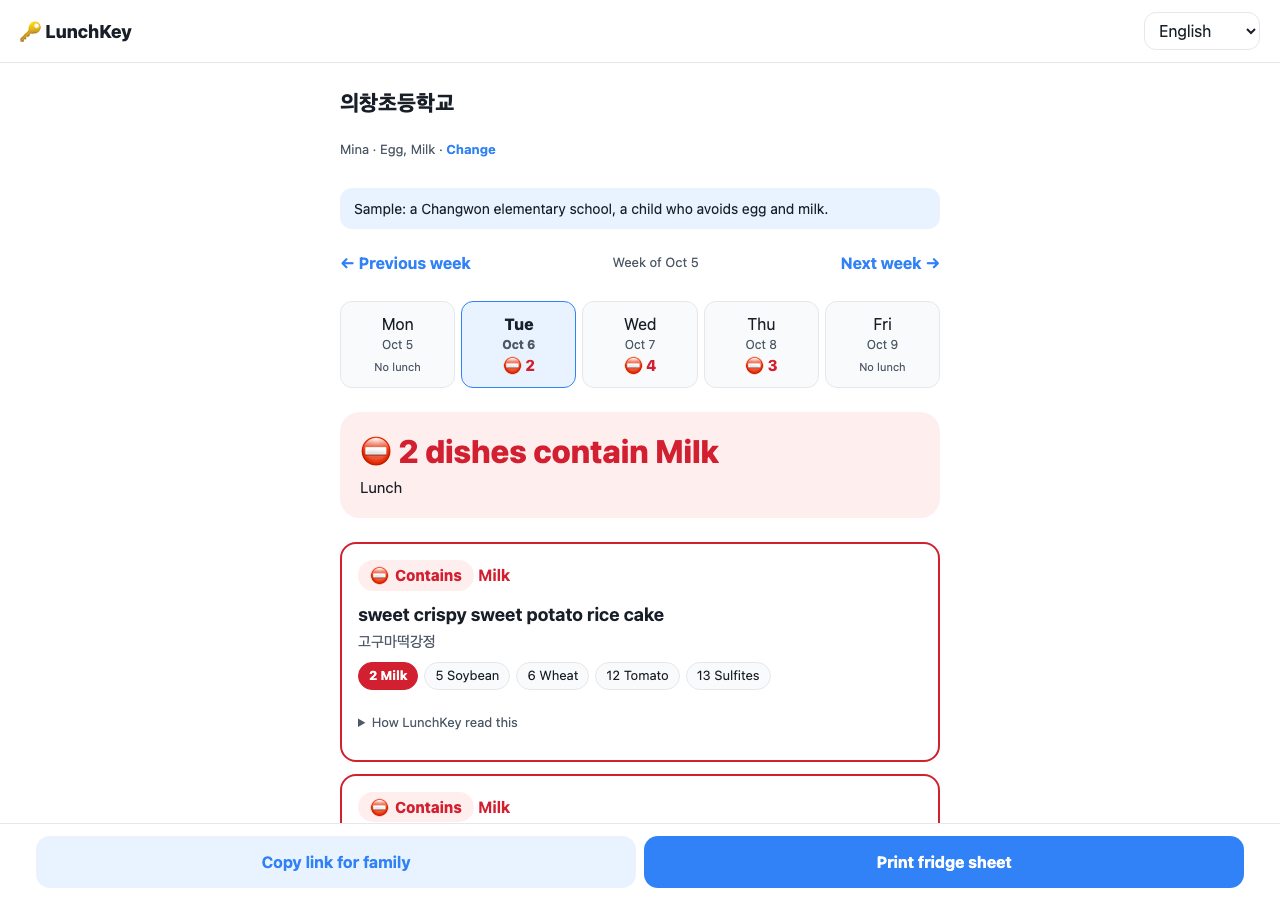
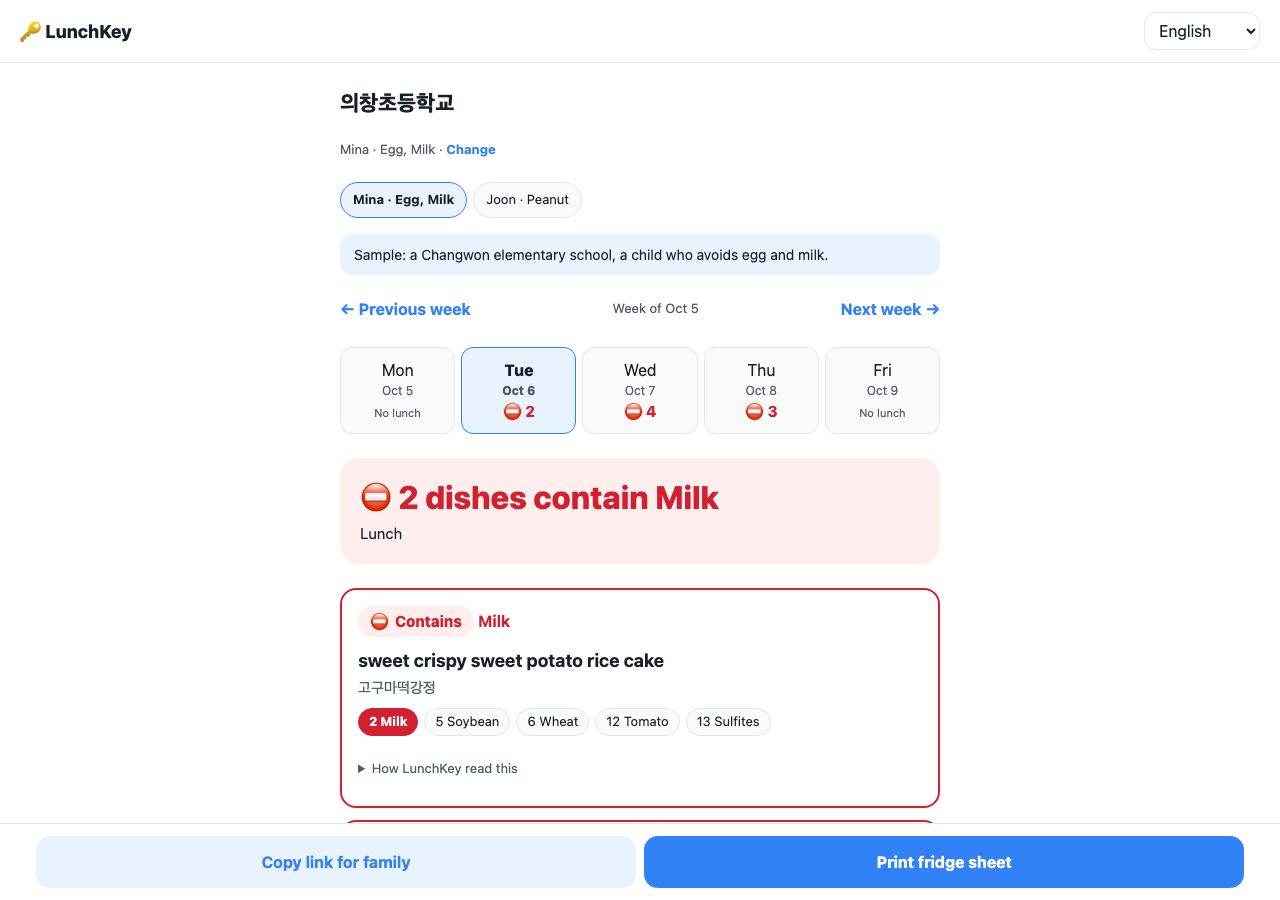
v0.5.1: split outside brackets and trailing dishes; shared numbers never green; legend lists; two-digit leftovers; glued-only counters; more name hints; fetch timeout + labeled sample week; demo family; clearer headlines

diff --git a/src/ui/i18n.js b/src/ui/i18n.js
@@ -14,7 +14,7 @@ export const T = {
     containsCount: (n, a) => `${n} ${n === 1 ? 'dish contains' : 'dishes contain'} ${a}`,
     allClear: 'No dish lists your child\'s allergens', noMeal: 'No lunch menu published for this day.',
     howRead: 'How LunchKey read this', printed: 'Printed on the menu', codes: 'Allergen numbers',
-    glossNote: 'Dish names are explained from a reviewed word list, not machine-translated. Untranslated parts are shown in Korean letters.',
+    glossNote: 'Dish names are explained from a reviewed word list, not machine-translated. Parts it does not know are shown romanized and marked (?).',
     print: 'Print fridge sheet', share: 'Copy link for family', copied: 'Link copied',
     prevWeek: '← Previous week', nextWeek: 'Next week →', week: 'Week of', edit: 'Change',
     pasteInstead: 'Or paste a menu (daycare, kindergarten…)', pasteTitle: 'Paste a menu', pasteHint: 'One dish per line, with the numbers as printed.', check: 'Check',
@@ -32,6 +32,7 @@ export const T = {
     notPublished: "This week's menu isn't published yet.", addChild: '+ Add another child', linkedChild: 'Added as another child.',
     schoolLink: 'For schools and family centers: copy a link with this school already chosen', noLunch: 'No lunch',
     mightContain: (a) => `Might contain ${a} — ask the school`, whyNumber: (n) => `A "${n}" is printed next to the name.`, whyName: 'The dish name suggests it, but no number is printed for it.', avoid: 'Avoid',
+    maybeHero: (n, a) => `${n} ${n === 1 ? 'dish' : 'dishes'} might contain ${a} — ask the school`, noNumbersOn: 'no numbers on', sampleWeek: 'Sample week (the live menu service could not be reached from here).',
   },
   ko: {
     tagline: '우리 아이 학교 급식, 내 언어로.',
@@ -63,6 +64,7 @@ export const T = {
     notPublished: '이번 주 식단이 아직 올라오지 않았어요.', addChild: '+ 아이 추가', linkedChild: '다른 아이로 추가했어요.',
     schoolLink: '학교·가족센터용: 이 학교가 미리 선택된 링크 복사', noLunch: '급식 없음',
     mightContain: (a) => `${a} 들어 있을 수 있음 — 학교에 확인`, whyNumber: (n) => `이름 옆에 "${n}"이(가) 적혀 있어요.`, whyName: '메뉴 이름에 들어 있는데 번호는 없어요.', avoid: '피할 것',
+    maybeHero: (n, a) => `${n}개 메뉴에 ${a} 들어 있을 수 있음 — 학교에 확인`, noNumbersOn: '번호 없는 메뉴', sampleWeek: '예시 주간이에요(여기서는 실시간 급식 서비스에 연결되지 않았어요).',
   },
   vi: {
     tagline: 'Bữa trưa ở trường của con, bằng ngôn ngữ của bạn.',
@@ -94,6 +96,7 @@ export const T = {
     notPublished: 'Thực đơn tuần này chưa được đăng.', addChild: '+ Thêm con', linkedChild: 'Đã thêm như một bé khác.',
     schoolLink: 'Dành cho trường và trung tâm gia đình: sao chép liên kết đã chọn sẵn trường này', noLunch: 'Không có bữa trưa',
     mightContain: (a) => `Có thể có ${a} — hãy hỏi nhà trường`, whyNumber: (n) => `Có số "${n}" in cạnh tên món.`, whyName: 'Tên món gợi ý có, nhưng không có số.', avoid: 'Cần tránh',
+    maybeHero: (n, a) => `${n} món có thể có ${a} — hãy hỏi nhà trường`, noNumbersOn: 'món không in số', sampleWeek: 'Tuần mẫu (không kết nối được dịch vụ thực đơn trực tiếp từ đây).',
   },
   zh: {
     tagline: '孩子的学校午餐，用您的语言看懂。',
@@ -125,6 +128,7 @@ export const T = {
     notPublished: '本周菜单尚未发布。', addChild: '+ 添加孩子', linkedChild: '已作为另一个孩子添加。',
     schoolLink: '供学校和家庭中心使用：复制已选好本校的链接', noLunch: '无午餐',
     mightContain: (a) => `可能含有${a} — 请向学校确认`, whyNumber: (n) => `菜名旁印有“${n}”。`, whyName: '菜名提示含有，但没有编号。', avoid: '需避开',
+    maybeHero: (n, a) => `${n} 道菜可能含有${a} — 请向学校确认`, noNumbersOn: '无编号的菜', sampleWeek: '示例周（从这里无法连接实时菜单服务）。',
   },
   tl: {
     tagline: 'Ang tanghalian ng anak mo sa paaralan, sa sarili mong wika.',
@@ -156,6 +160,7 @@ export const T = {
     notPublished: 'Hindi pa nailalabas ang menu ngayong linggo.', addChild: '+ Magdagdag ng anak', linkedChild: 'Idinagdag bilang ibang anak.',
     schoolLink: 'Para sa paaralan at family center: kopyahin ang link na napili na ang paaralang ito', noLunch: 'Walang tanghalian',
     mightContain: (a) => `Maaaring may ${a} — itanong sa paaralan`, whyNumber: (n) => `May "${n}" na nakasulat sa tabi ng pangalan.`, whyName: 'Ipinahihiwatig ng pangalan ng ulam, pero walang numero.', avoid: 'Iwasan',
+    maybeHero: (n, a) => `${n} ulam ang maaaring may ${a} — itanong sa paaralan`, noNumbersOn: 'walang numero', sampleWeek: 'Halimbawang linggo (hindi maabot ang live na serbisyo ng menu mula rito).',
   },
   ja: {
     tagline: 'お子さんの給食を、あなたの言葉で。',
@@ -187,6 +192,7 @@ export const T = {
     notPublished: '今週の献立はまだ公開されていません。', addChild: '+ 子どもを追加', linkedChild: '別のお子さんとして追加しました。',
     schoolLink: '学校・家族支援センター向け：この学校を選択済みのリンクをコピー', noLunch: '給食なし',
     mightContain: (a) => `${a}を含む可能性 — 学校に確認`, whyNumber: (n) => `料理名の横に「${n}」と書かれています。`, whyName: '料理名からは含まれそうですが、番号はありません。', avoid: '避けるもの',
+    maybeHero: (n, a) => `${n}品に${a}が含まれる可能性 — 学校に確認`, noNumbersOn: '番号なし', sampleWeek: 'サンプルの週です（ここからは献立サービスに接続できませんでした）。',
   },
   ru: {
     tagline: 'Школьный обед вашего ребёнка — на вашем языке.',
@@ -218,6 +224,7 @@ export const T = {
     notPublished: 'Меню на эту неделю ещё не опубликовано.', addChild: '+ Добавить ребёнка', linkedChild: 'Добавлен как другой ребёнок.',
     schoolLink: 'Для школ и семейных центров: скопировать ссылку с уже выбранной школой', noLunch: 'Нет обеда',
     mightContain: (a) => `Может содержать: ${a} — уточните в школе`, whyNumber: (n) => `Рядом с названием напечатано «${n}».`, whyName: 'Название блюда указывает на это, но номера нет.', avoid: 'Избегать',
+    maybeHero: (n, a) => `Может содержать «${a}» (блюд: ${n}) — уточните в школе`, noNumbersOn: 'без номеров', sampleWeek: 'Пример недели (служба меню отсюда недоступна).',
   },
 };
 

diff --git a/src/domain/menu.js b/src/domain/menu.js
@@ -28,19 +28,47 @@ export function splitMenu(ddish) {
     .flatMap(splitCompound);
 }
 
-const HAS_CODE_GROUP = /[(\[<]\s*\d{1,2}(?:[.,/·\s]+\d{1,2})*\s*[.,]?\s*[)\]>]|[\u2460-\u2473\u2776-\u277f]/;
+const HAS_CODE_GROUP = /[(\[<]\s*\d{1,2}(?:[.,/·\s]+\d{1,2})*\s*[.,]?\s*[)\]>]|[\u2460-\u24ff\u2776-\u2793]/;
+// Side items that may share the main dish's numbers ("밥/짜장소스 (5.6.10)").
+const SIDE = /^(?:소스|쌈장|양념장|초장|간장|양념|밥|쌀밥|상추|쌈|드레싱|케첩|케찹|머스터드|마요|단무지|피클|김치|배추김치|깍두기)$/;
+
+/** Split on separators that are OUTSIDE brackets only. */
+function splitOutside(line) {
+  const out = []; let depth = 0; let cur = '';
+  for (let i = 0; i < line.length; i++) {
+    const ch = line[i];
+    if ('([<{'.includes(ch)) depth++;
+    if (')]>}'.includes(ch)) depth = Math.max(0, depth - 1);
+    const isSep = depth === 0 && ('/&+'.includes(ch) || (ch === ',' && /[\uac00-\ud7a3]/.test(line.slice(i + 1).trimStart()[0] ?? '')));
+    if (isSep) { out.push(cur); cur = ''; } else cur += ch;
+  }
+  out.push(cur);
+  return out.map((x) => x.trim()).filter(Boolean);
+}
+
 /**
- * "카레라이스(1.5.6)/요구르트(2)" is two dishes. Split on / & + , when both sides name a dish.
- * If only the LAST part carries a code group ("잡채밥/짜장소스 (5.6.10)"), the codes are shared and the line stays one dish.
+ * One printed line can hold several dishes:
+ * - "카레라이스(1.5.6)/요구르트(2)" → two dishes (split on / & + , outside brackets)
+ * - "새우튀김 (1.5.6.9) 타르타르소스" → two dishes (Korean text after the last code group is its own, unnumbered dish)
+ * - "잡채밥/짜장소스 (5.6.10)" → one dish whose numbers may be shared; it is marked `shared:` so it is never shown green
+ *   unless the earlier parts are plain side items.
  * @param {string} line
  * @returns {string[]}
  */
 export function splitCompound(line) {
-  const parts = line.split(/\s*[/&+]\s*|\s*,\s*(?=[\uac00-\ud7a3])/).map((x) => x.trim()).filter(Boolean);
+  // Trailing dish after the last code group, separated by a space: "새우튀김 (1.5.6.9) 타르타르소스".
+  const tail = line.match(/^(.*[)\]>])\s+([^()\[\]<>]*[\uac00-\ud7a3]{2,}[^()\[\]<>]*)$/);
+  if (tail && HAS_CODE_GROUP.test(tail[1]) && !/^\s*[-–]?\d/.test(tail[2]) === true && !/^[\s\d]*$/.test(tail[2])) {
+    return [...splitCompound(tail[1].trim()), tail[2].trim()];
+  }
+  const parts = splitOutside(line);
   if (parts.length < 2 || !parts.every((x) => /[\uac00-\ud7a3]/.test(x))) return [line];
   const coded = parts.map((x) => HAS_CODE_GROUP.test(x));
   if (!coded.some(Boolean)) return [line];
-  if (coded.filter(Boolean).length === 1 && coded[coded.length - 1]) return [line];
+  if (coded.filter(Boolean).length === 1 && coded[coded.length - 1]) {
+    const earlier = parts.slice(0, -1).map((x) => x.replace(/[^\uac00-\ud7a3]/g, ''));
+    return earlier.every((x) => SIDE.test(x)) ? [line] : [`shared:${line}`];
+  }
   return parts;
 }
 
@@ -54,6 +82,9 @@ const numbers = (group) => group.split(/[^\d]+/).filter(Boolean).map(Number);
  * @returns {DishLine}
  */
 export function parseDishLine(raw) {
+  // "shared:" marks a line whose numbers belong to only some of its dishes (see splitCompound): never green.
+  const shared = String(raw ?? '').startsWith('shared:');
+  if (shared) raw = String(raw).slice('shared:'.length);
   const found = [];
   const ambiguous = []; // numbers that COULD be codes but aren't clearly codes: never allowed to support "clear"
   const maybe = (n) => { if (isAllergenCode(n)) ambiguous.push(n); };
@@ -72,7 +103,11 @@ export function parseDishLine(raw) {
   // ㆍ (U+318D) is a common middle-dot stand-in; swap it BEFORE NFKC (which turns it into a jamo).
   s = s.replace(/[ㆍ\u119e]/g, '·').normalize('NFKC').replace(MARKERS, '');
   // A bracket holding only an allergen's name ("(난류)", "(게)", "(아황산)") is that code.
-  s = s.replace(/[([]\s*([\uac00-\ud7a3]{1,5})\s*[)\]]/g, (all, w) => { const id = LEGEND_WORDS.get(w); if (id) { found.push(id); hadGroup = true; return ' '; } return all; });
+  s = s.replace(/[([]\s*([\uac00-\ud7a3]{1,5}(?:\s*[,·/\s]\s*[\uac00-\ud7a3]{1,5})*)\s*[)\]]/g, (all, list) => {
+    const ids = list.split(/[,·/\s]+/).map((w) => LEGEND_WORDS.get(w));
+    if (ids.length && ids.every(Boolean)) { found.push(...ids); hadGroup = true; return ' '; }
+    return all;
+  });
 
   // Portion notes ("(30g*3개)", "(20kg)", "(50 ml)") are not codes, but any 1–19 number inside stays ambiguous.
   s = s.replace(/\(\s*[\d.]+\s*(?:g|kg|ml|mL|l|L|개|ea|EA|인분|조각|%)(?:\s*[*x×]\s*\d+\s*(?:개|ea|EA|조각)?)?\s*\)/g, (note) => { for (const m of note.matchAll(/\d+/g)) maybe(+m[0]); return ' '; });
@@ -106,19 +141,21 @@ export function parseDishLine(raw) {
   const COUNTER = /^(?:곡|색|가지|종류|인분|학년|단계|등급|겹|혼합|탄)/;
   s = s.replace(/\d+/g, (num, at, whole) => {
     const after = whole.slice(at + num.length);
-    if (COUNTER.test(after) && !(at === 0 && Number(num) <= 19 && !/^(?:곡|색|가지|종류|혼합)/.test(after))) return num; // part of the dish name
+    const glued = at === 0 || /[\uac00-\ud7a3]/.test(whole[at - 1] ?? '');
+    if (glued && COUNTER.test(after) && !(at === 0 && Number(num) <= 19 && !/^(?:곡|색|가지|종류|혼합)/.test(after))) return num; // part of the dish name
     const v = Number(num);
+    if (num.length === 2 && hadGroup) { maybe(Number(num[0])); maybe(Number(num[1])); } // "(5.6)¹²" → 12, or 1 and 2
     if (num.length > 2 || v > 19 || v === 0) return num; // "비타500", "오렌지 31": not a code
     maybe(v);
     return /[가-힣]/.test(whole[at - 1] ?? '') && /[가-힣]/.test(after[0] ?? '') ? num : ' ';
   });
 
-  const nameKo = s.replace(/\s{2,}/g, ' ').replace(/\s*([/&])\s*/g, '$1').replace(/[\s(.:;,·~_\-]+$/, '').replace(/^[\s(.:;,·~_\-]+/, '').replace(MARKERS, '').trim();
+  const nameKo = s.replace(/\(\s*[-–·.,\s]*\)/g, ' ').replace(/(?:^|\s)(?:개|조각)(?=\s|$)/g, ' ').replace(/\s{2,}/g, ' ').replace(/\s*([/&])\s*/g, '$1').replace(/[\s(.:;,·~_\-]+$/, '').replace(/^[\s(.:;,·~_\-]+/, '').replace(MARKERS, '').trim();
 
   const codes = [...new Set(found.filter(isAllergenCode))].sort((a, b) => a - b);
   const unknownCodes = [...new Set(found.filter((n) => !isAllergenCode(n)))].sort((a, b) => a - b);
   const ambiguousCodes = [...new Set(ambiguous)].filter((n) => !codes.includes(n)).sort((a, b) => a - b);
   /** @type {ParseStatus} */
   const parseStatus = unknownCodes.length || leftover || unreadableMark ? 'malformed' : codes.length ? 'coded' : 'uncoded';
-  return { raw: String(raw ?? ''), nameKo, codes, unknownCodes, ambiguousCodes, parseStatus };
+  return { raw: String(raw ?? ''), nameKo, codes, unknownCodes, ambiguousCodes, parseStatus, shared };
 }

diff --git a/src/ui/app.js b/src/ui/app.js
@@ -11,6 +11,7 @@ import { encodeProfile, decodeProfile, UI_LANGS } from '../adapters/profileStore
 import { t, LANG_NAMES } from './i18n.js';
 
 const SAMPLE = { school: { office: 'S10', code: '9022479', name: '의창초등학교' }, allergens: [1, 2], name: 'Mina' };
+const SAMPLE_SIBLING = { school: SAMPLE.school, allergens: [4], name: 'Joon' }; // demo family: a peanut-allergic sibling shows the grey / green states
 const SAMPLE_WEEK = '2026-09-28'; // bundled copy in docs/sample-week.json (used if the live API can't be reached)
 const STORE = 'lunchkey.v1';
 const CACHE = 'lunchkey.cache.v4'; // stores RAW menu lines, re-parsed on read, so parser fixes reach saved weeks
@@ -22,7 +23,8 @@ if (params.get('key')) {
   params.delete('key'); history.replaceState(null, '', location.pathname + (params.toString() ? `?${params}` : '') + location.hash); // don't leave the key in the address bar
 }
 let neisKey = ''; try { neisKey = localStorage.getItem(KEY_STORE) || ''; } catch { /* ignore */ }
-const neis = createNeisSource({ fetch: (u) => fetch(u), key: neisKey || undefined }); // optional free NEIS key enables full paging
+const fetchWithTimeout = (u) => { const c = new AbortController(); const t = setTimeout(() => c.abort(), 6000); return fetch(u, { signal: c.signal }).finally(() => clearTimeout(t)); };
+const neis = createNeisSource({ fetch: fetchWithTimeout, key: neisKey || undefined }); // 6 s timeout; optional free NEIS key enables full paging
 const $app = document.getElementById('app');
 const $cta = document.getElementById('cta');
 const $lang = document.getElementById('langSelect');
@@ -52,7 +54,10 @@ function loadState() {
   const notice = merged.notice;
   if (!children.length) children = [{ allergens: [], lang: guessLang(), name: '', school: null }];
   let profile = children[Math.min(active, children.length - 1)];
-  if (DEMO) { profile = { ...profile, ...SAMPLE, lang: UI_LANGS.includes(params.get('lang')) ? params.get('lang') : profile.lang }; children = [profile]; active = 0; }
+  if (DEMO) {
+    const lang = UI_LANGS.includes(params.get('lang')) ? params.get('lang') : profile.lang;
+    children = [{ ...SAMPLE, lang }, { ...SAMPLE_SIBLING, lang }]; active = params.get('kid') === '2' ? 1 : 0; profile = children[active];
+  }
   // A parent arriving from a school link (school set, nothing chosen yet) starts at the language step.
   const step = params.get('paste') === '1' ? 'paste' : profile.school && profile.allergens.length ? 'week' : 'lang';
   return { children, active, profile, step, monday: weekRange(todayIso()).monday, day: null, firstLoad: true, notice, pasteText: '', office: '', weeks: new Map() };
@@ -190,7 +195,12 @@ async function loadWeek(monday) {
       state.weeks.set(key, res);
       return res;
     }
-    if (DEMO) { state.monday = SAMPLE_WEEK; return { meals: await bundledSample(), offline: true }; }
+    if (DEMO) {
+      state.monday = SAMPLE_WEEK;
+      const res = { meals: await bundledSample(), offline: 'sample' };
+      state.weeks.set(`${state.profile.school.office}:${state.profile.school.code}:${SAMPLE_WEEK}`, res);
+      return res;
+    }
     throw err;
   }
 }
@@ -242,8 +252,8 @@ async function renderWeek() {
     const names = h.matched.map((c) => allergenName(c, p.lang)).join(', ');
     const hero = {
       no: `<div class="hero no"><div class="big">⛔ ${esc(L.containsCount(h.count, names))}</div><p>${esc(L.lunch)}</p></div>`,
-      warn: `<div class="hero warn"><div class="big">? ${esc(L.unknownHero(h.count))}</div><p>${esc(L.lunch)}</p></div>`,
-      neutral: `<div class="hero neutral"><div class="big">○ ${esc(L.nolistedHero(h.count))}</div><p>${esc(L.lunch)}</p></div>`,
+      warn: `<div class="hero warn"><div class="big">? ${esc(h.maybe.length ? L.maybeHero(h.count, h.maybe.map((c) => allergenName(c, p.lang)).join(', ')) : L.unknownHero(h.count))}</div><p>${esc(L.lunch)}</p></div>`,
+      neutral: `<div class="hero neutral"><div class="big">○ ${esc(L.nolistedHero(h.count))}</div><p>${esc(L.lunch)} · ${esc(L.noNumbersOn)}: ${esc(h.unnumbered.map((d) => (p.lang === 'ko' ? d.nameKo : d.gloss.text)).join(', '))}</p></div>`,
       ok: `<div class="hero ok"><div class="big">✓ ${esc(L.allClear)}</div><p>${esc(L.lunch)}</p></div>`,
       none: `<div class="hero none"><div class="big">—</div><p>${esc(L.noMeal)}</p></div>`,
     }[h.tone];
@@ -251,7 +261,7 @@ async function renderWeek() {
     return hero + [...m.dishes].sort((a, b) => order[a.verdict] - order[b.verdict]).map((d) => dishCard(d, p.lang, L)).join('');
   }).join('');
   $app.innerHTML = `${header(p, L)}
-    ${state.notice ? `<p class="banner">${esc(state.notice)}</p>` : ''}${res.offline ? `<p class="banner">${esc(L.errNet)} ${esc(L.savedCopy)}</p>` : ''}
+    ${state.notice ? `<p class="banner">${esc(state.notice)}</p>` : ''}${res.offline === 'sample' ? `<p class="banner">${esc(L.sampleWeek)}</p>` : res.offline ? `<p class="banner">${esc(L.errNet)} ${esc(L.savedCopy)}</p>` : ''}
     <div class="weeknav" style="margin-top:12px"><button class="btn link" id="prev">${esc(L.prevWeek)}</button><span class="aux">${esc(L.week)} ${esc(fmtDate(state.monday, p.lang))}</span><button class="btn link" id="next">${esc(L.nextWeek)}</button></div>
     <div class="tabs" role="tablist">${tabs}</div><div id="panel" role="tabpanel" aria-labelledby="tab-${state.day}">${body}</div>
     <p class="note">${esc(L.safety)}</p><p class="note">${esc(L.glossNote)} · ${esc(L.dataSource)}</p>

diff --git a/src/domain/hints.js b/src/domain/hints.js
@@ -1,16 +1,16 @@
 // Words in a Korean dish name that point to one of the 19 numbered allergens.
 // Used only to ADD warnings: if the name suggests an allergen the printed numbers don't show, the dish is never "clear".
 const WORDS = [
-  [2, ['우유', '치즈', '요구르트', '요거트', '버터', '크림', '요플레', '밀크', '라떼']],
-  [1, ['계란', '달걀', '메추리알', '에그', '마요', '난류']],
+  [2, ['우유', '치즈', '요구르트', '요거트', '버터', '크림', '요플레', '밀크', '라떼', '카스테라', '케이크', '마늘빵', '피자']],
+  [1, ['계란', '달걀', '메추리알', '에그', '마요', '난류', '오므라이스', '카스테라', '케이크', '머핀', '와플', '푸딩']],
   [3, ['메밀', '모밀']],
   [4, ['땅콩']],
   [5, ['두부', '두유', '된장', '간장', '콩', '대두']],
   [6, ['밀가루', '빵', '국수', '라면', '우동', '파스타', '스파게티', '만두', '피자', '돈까스', '돈가스', '까스']],
   [7, ['고등어']],
-  [8, ['꽃게', '게맛살', '게살', '크래미', '대게']],
+  [8, ['꽃게', '게맛살', '게살', '크래미', '대게', '게장']],
   [9, ['새우']],
-  [10, ['돼지', '돈육', '제육', '삼겹', '목살', '햄', '소시지', '소세지', '베이컨', '스팸', '돈까스', '돈가스']],
+  [10, ['돼지', '돈육', '제육', '삼겹', '목살', '햄', '소시지', '소세지', '베이컨', '스팸', '돈까스', '돈가스', '탕수육', '순대', '족발', '보쌈', '수육']],
   [11, ['복숭아']],
   [12, ['토마토', '케첩', '케찹']],
   [13, ['아황산']],
@@ -26,7 +26,8 @@ const WORDS = [
 // Words that contain a hint word but mean something else.
 const EXCEPT = {
   5: /강낭콩|완두콩|병아리콩|땅콩/g, // kidney bean, pea, chickpea, peanut are not soybean
-  16: /(?:오리|돼지|돈육|제육|닭|돈|삼겹살|주꾸미|쭈꾸미|오징어|버섯)(?:고추장|간장|양념|매콤)?불고기/g, // duck/pork/chicken bulgogi is not beef
+  16: /(?:오리|돼지|돈육|제육|닭|돈|삼겹살|주꾸미|쭈꾸미|오징어)(?:고추장|간장|양념|매콤)?불고기/g,
+  10: /돼지감자/g, // Jerusalem artichoke, not pork // duck/pork/chicken bulgogi is not beef
 };
 
 /** @param {string} nameKo @returns {number[]} allergen ids the name suggests */

diff --git a/src/application/headline.js b/src/application/headline.js
@@ -3,15 +3,18 @@ import { summaryStatus } from './weekView.js';
 /**
  * What the big card at the top of a meal says. Pure, so the UI's most important sentence is tested.
  * @param {{dishes: {matched:number[]}[], summary: {contains:number, clear:number, nonumbers:number, unreadable:number}}} meal
- * @returns {{tone:'no'|'warn'|'neutral'|'ok'|'none', count:number, matched:number[]}}
+ * @returns {{tone:'no'|'warn'|'neutral'|'ok'|'none', count:number, matched:number[], maybe:number[], unnumbered:object[]}}
  */
 export function headline(meal) {
-  if (!meal || !meal.dishes.length) return { tone: 'none', count: 0, matched: [] };
+  if (!meal || !meal.dishes.length) return { tone: 'none', count: 0, matched: [], maybe: [], unnumbered: [] };
   const status = summaryStatus(meal.summary);
   const matched = [...new Set(meal.dishes.flatMap((d) => d.matched))].sort((a, b) => a - b);
-  if (status === 'contains') return { tone: 'no', count: meal.summary.contains, matched };
-  if (status === 'unknown') return { tone: 'warn', count: meal.summary.unreadable, matched };
-  if (status === 'nolisted') return { tone: 'neutral', count: meal.summary.nonumbers, matched };
-  if (status === 'clear') return { tone: 'ok', count: 0, matched };
-  return { tone: 'none', count: 0, matched };
+  const maybe = [...new Set(meal.dishes.flatMap((d) => d.maybe ?? []))].sort((a, b) => a - b);
+  const unnumbered = meal.dishes.filter((d) => d.verdict === 'nonumbers');
+  const base = { matched, maybe, unnumbered };
+  if (status === 'contains') return { tone: 'no', count: meal.summary.contains, ...base };
+  if (status === 'unknown') return { tone: 'warn', count: meal.summary.unreadable, ...base };
+  if (status === 'nolisted') return { tone: 'neutral', count: meal.summary.nonumbers, ...base };
+  if (status === 'clear') return { tone: 'ok', count: 0, ...base };
+  return { tone: 'none', count: 0, ...base };
 }

diff --git a/src/domain/verdict.js b/src/domain/verdict.js
@@ -22,6 +22,6 @@ export function judgeDish(dish, avoid) {
   if (byNumber.length) return { verdict: 'unreadable', matched: [], maybe: byNumber, reason: 'number' };
   if (byName.length) return { verdict: 'unreadable', matched: [], maybe: byName, reason: 'name' };
   if (dish.parseStatus === 'malformed') return { verdict: 'unreadable', matched: [], maybe: [], reason: 'malformed' };
-  if (dish.parseStatus === 'uncoded') return { verdict: 'nonumbers', matched: [], maybe: [], reason: 'none' };
+  if (dish.parseStatus === 'uncoded' || dish.shared) return { verdict: 'nonumbers', matched: [], maybe: [], reason: dish.shared ? 'shared' : 'none' };
   return { verdict: 'clear', matched: [], maybe: [], reason: 'code' };
 }

diff --git a/src/domain/glossary.js b/src/domain/glossary.js
@@ -3370,5 +3370,20 @@ export const GLOSSARY = {
 "en": "fish-cake bar",
 "vi": "chả cá que",
 "zh": "鱼糕棒"
+},
+"돼지감자": {
+"en": "Jerusalem artichoke",
+"vi": "củ cúc vu",
+"zh": "菊芋"
+},
+"타르타르소스": {
+"en": "tartar sauce",
+"vi": "sốt tartar",
+"zh": "塔塔酱"
+},
+"마늘빵": {
+"en": "garlic bread",
+"vi": "bánh mì bơ tỏi",
+"zh": "蒜香面包"
 }
 };

diff --git a/README.md b/README.md
@@ -62,7 +62,7 @@ A day or meal is green only if every dish is ✓. Two safety layers make sure of
 - **The parser treats any leftover number from 1 to 19 as possibly a code**, unless it is part of a counting word (`10곡`, `3색`).
 - **The dish name can only add warnings.** For example, `우유` (milk) printed without a number shows "Might contain Milk" to a milk-allergic child.
 
-A fuzz test checks this. For every code N and 9 real dish bases, it puts N after 28 separators (`,` `·` `ㆍ` `;` `~` `–` `※` …), in front of the name, inside notes (`(난류N)`, `(가공:N)`), in full-width brackets, as every circled-number style and as a superscript. That is about 7,000 generated lines, and none of them may produce ✓ for a child avoiding N. Legend words printed instead of numbers (`(난류)`, `(게)`) count as codes, and a list that is cut off (`(5.6.`) is unreadable. Lines with two dishes (`카레라이스(1.5.6)/요구르트`) are split, so the unnumbered dish is never folded into a green one.
+A fuzz test checks this. For every code N and 9 real dish bases, it puts N after 28 separators (`,` `·` `ㆍ` `;` `~` `–` `※` …), in front of the name, inside notes (`(난류N)`, `(가공:N)`), in full-width brackets, as every circled-number style and as a superscript. That is about 7,000 generated lines, and none of them may produce ✓ for a child avoiding N. Legend words printed instead of numbers (`(난류)`, `(게)`) count as codes, and a list that is cut off (`(5.6.`) is unreadable. Lines with two dishes are split outside brackets (`카레라이스(1.5.6)/요구르트`, `새우튀김 (1.5.6.9) 타르타르소스`), and when numbers are printed only after the last of several dishes (`오므라이스/미역국(5.6)`), that line is never shown green unless the others are plain side items (rice, sauce).
 
 ## Does it actually read real menus? (measured, not claimed)
 
@@ -98,7 +98,7 @@ Every one of those odd lines is listed in [`docs/audit.json`](docs/audit.json), 
 Amber "?" days stay under 2% for every allergen, so the warning keeps its meaning. Milk shows ⛔ on 81% of days because the daily milk carton is numbered.
 
 ### Dish names: explained, not machine-translated
-A wrong translation could hide an ingredient. So each name is built only from a **glossary of 650+ Korean menu words** (English, Vietnamese, Chinese), using longest-match segmentation. For example, `돼지고기김치찌개` becomes "pork kimchi stew", and `달걀찜` becomes "steamed egg" / "trứng hấp" / "蒸鸡蛋" (word order per language). A part LunchKey doesn't know is marked "(?)" right in the name: romanized in English, kept in Korean letters in Vietnamese and Chinese. It is never guessed.
+A wrong translation could hide an ingredient. So each name is built only from a **glossary of 670+ Korean menu words** (English, Vietnamese, Chinese), using longest-match segmentation. For example, `돼지고기김치찌개` becomes "pork kimchi stew", and `달걀찜` becomes "steamed egg" / "trứng hấp" / "蒸鸡蛋" (word order per language). A part LunchKey doesn't know is marked "(?)" right in the name: romanized in English, kept in Korean letters in Vietnamese and Chinese. It is never guessed.
 
 The allergen verdict never depends on the dish name, only on the printed numbers. English glosses were checked by the author, a native Korean speaker. Vietnamese and Chinese glosses were drafted with AI help and checked against dictionaries; native-speaker review is the next step. Filipino, Japanese and Russian users see English dish explanations, tagged as English for screen readers.
 
@@ -116,7 +116,7 @@ scripts/          audit.mjs (national sample) · check-layers.mjs
 - **Keyless NEIS returns only the first 5 rows and ignores paging.** I measured this on 2026-10-06. So LunchKey asks narrow questions: one school, one week, lunch only. That is at most 5 rows, fetched once per week and re-rendered from memory, and the tests use a fake API that behaves the same way.
 - **Sustainability.** The code already supports a free personal NEIS key (`?key=…`, stored on the device) for full paging. If keyless sample access ever changes, the fallback is a small scheduled job that pre-fetches opted-in schools into static JSON on GitHub Pages, behind the same adapter port.
 - **Resilience.** NEIS error codes are shown as errors, never as "no menu". The last loaded weeks are saved on the phone as raw menu text and re-parsed when shown, so a parser fix reaches saved weeks too; they appear labeled if the network fails. The sample school ships with a bundled week.
-- **Tests: 72** (`npm test`, Node's built-in runner, CI on Node 20/22/24). They cover every acceptance criterion in [`SPEC.md`](SPEC.md), the hand-checked real lines, the never-✓ property and fuzz tests, three hand-labeled sets (incl. the held-out May sample), the top-card logic (`application/headline.js`), the link-merge rules (`application/children.js`), and a layer check. The check fails if `domain/` or `application/` imports adapters or the UI, or touches `fetch`, `localStorage` or `document`.
+- **Tests: 75** (`npm test`, Node's built-in runner, CI on Node 20/22/24). They cover every acceptance criterion in [`SPEC.md`](SPEC.md), the hand-checked real lines, the never-✓ property and fuzz tests, three hand-labeled sets (incl. the held-out May sample), the top-card logic (`application/headline.js`), the link-merge rules (`application/children.js`), and a layer check. The check fails if `domain/` or `application/` imports adapters or the UI, or touches `fetch`, `localStorage` or `document`.
 - **Accessibility.**
   - Every verdict is shown as an icon, a word and a color.
   - Each language block carries its own `lang` attribute.
@@ -128,7 +128,7 @@ Run locally: `npm test` · `npm run audit` · `npm run serve`, then open http://
 
 ## Limits (honest)
 
-- Two dishes on one line separated only by a space (`스파게티(1.2.5.6) 마늘빵`) are not split. Name hints catch the common risky words (milk, egg, peanut and others), but not every case.
+- Two dishes separated only by a space are split when the second one comes after the number group (`스파게티(5.6) 마늘빵`). If it comes before the group, the line is treated as one dish, and name hints only catch the common risky words.
 - I haven't tested the live API from outside Korea. If NEIS is slow or blocked abroad, the demo falls back to its bundled week and says so.
 
 - LunchKey reads the **19 allergens that Korean school menus number**. It can't see ingredients a school didn't number, and it is **not medical advice**. The setup, week and paste screens say so and point parents to the school's nutrition teacher.

diff --git a/SPEC.md b/SPEC.md
@@ -1,4 +1,4 @@
-# LunchKey — SPEC (v0.4, 2026-10-06)
+# LunchKey — SPEC (v0.5, 2026-10-06)
 
 ## 0. One line
 LunchKey turns a Korean school's official lunch menu, where allergens are printed only as bare numbers after Korean dish names (`새알심만두국 (1.2.5.6.9.10.15.16.18)`), into a per-child view in the parent's own language: each dish is marked **contains your child's allergen** (⛔), **might contain / couldn't read** (?), **no numbers printed** (○), or **none of your child's allergens listed** (✓ — the only green).
@@ -7,7 +7,7 @@ Essence: not a menu translator, but **the key that lets a parent who can't read 
 ## 1. Success criteria · deadline · non-goals
 - Reference: Korean schools already publish menus with allergen numbers. Parents get a one-time number legend sheet at the start of each term. Nothing gives a per-child, in-language view of the live menu.
 - Success (numbers):
-  1. National sample (17 provincial education offices, ≥ 150 distinct schools, one month of lunches, each school-day once): **≤ 0.05% unreadable lines, all shown as ?**, and a ≥ 150-line hand check agrees with an independent reading. Measured by `npm run audit` → `docs/audit.json`, labels in `docs/audit-labels.json`. (2026-10-06: 170 schools, 24,745 lines, 0% unreadable; untouched May holdout 16,799 lines, 0.01%; 150/150 + 111 stratified.)
+  1. National sample (17 provincial education offices, ≥ 150 distinct schools, one month of lunches, each school-day once): **≤ 0.05% unreadable lines, all shown as ?**, and ≥ 150 hand-labeled lines (author, regex cross-check) agree with the parser. Measured by `npm run audit` → `docs/audit.json`, labels in `docs/audit-labels.json`. (2026-10-06: 170 schools, 24,745 lines, 0% unreadable; untouched May holdout 16,799 lines, 0.01%; 150/150 + 111 stratified.)
   2. **0 false "no listed allergen" results** on the hand-labeled test set. A dish whose codes include the child's allergen must never be shown as clear.
   3. Dish-name gloss: **≥ 80% of dish lines** in the audit sample get a full or partial English gloss. Unglossed names fall back to the Korean name plus romanization. A dish name is never invented.
   4. On a phone (390 px wide), a parent goes from opening the app to seeing this week's view in **≤ 3 taps** after picking a school once.
@@ -89,6 +89,7 @@ tests/            node:test
 1. Mobile first: 390 px, no horizontal scroll (measured: scrollWidth 390). 2. One question per setup screen (language → school → allergens) with a progress bar. 3. Type scale: titles 22–24 px bold, body 16 px, auxiliary 13 px. 4. Cards 16 px radius, sections ≥ 24 px apart. 5. One fixed bottom CTA, ≥ 52 px tall. 6. The result leads with the count ("2 dishes contain Milk", 32 px), the verdict list below. 7. Evidence (printed line, numbers, gloss parts) sits in a closed `<details>`. 8. Short, friendly microcopy in 7 languages. 9. White + one blue + three status colors, icon + word + color for every status, dark mode. 10. System fonts, no CDN, skeleton loading.
 
 ## 10. Changelog
+- v0.5 2026-10-06: split outside brackets + trailing-dish split, `shared:` lines never green, legend lists, two-digit leftovers, glued-only counting words, more name hints (egg/pork/crab dishes), mushroom bulgogi warns for beef, fetch timeout + labeled sample week, demo family (peanut sibling), headline names the possible allergen and the unnumbered dishes.
 - v0.4 2026-10-06: default-ambiguous leftover numbers (counting-word allow-list), NFKC + circled/negative-circled digits, all numbers in mixed notes, multi-dish split (`splitCompound`), name hints that only add warnings (`hints.js`), "might contain X" chips with the reason, link merge as a pure function (`children.js`), school links carry no language, key stripped from the URL, untouched May holdout.
 - v0.3 2026-10-06: ambiguousCodes + four verdicts, property test, headline module, in-memory weeks, multi-child, school link, NEIS key option, stratified hand labels (111) + June audit.
 - v0.2 2026-10-06: keyless NEIS reality (first 5 rows), parser reads all bracket groups and odd separators, portion/number notes, `summaryStatus` (never green with unknowns), error codes, saved weeks, honest audit (distinct schools, dedup), hand labels, i18n wording of the clear verdict.
